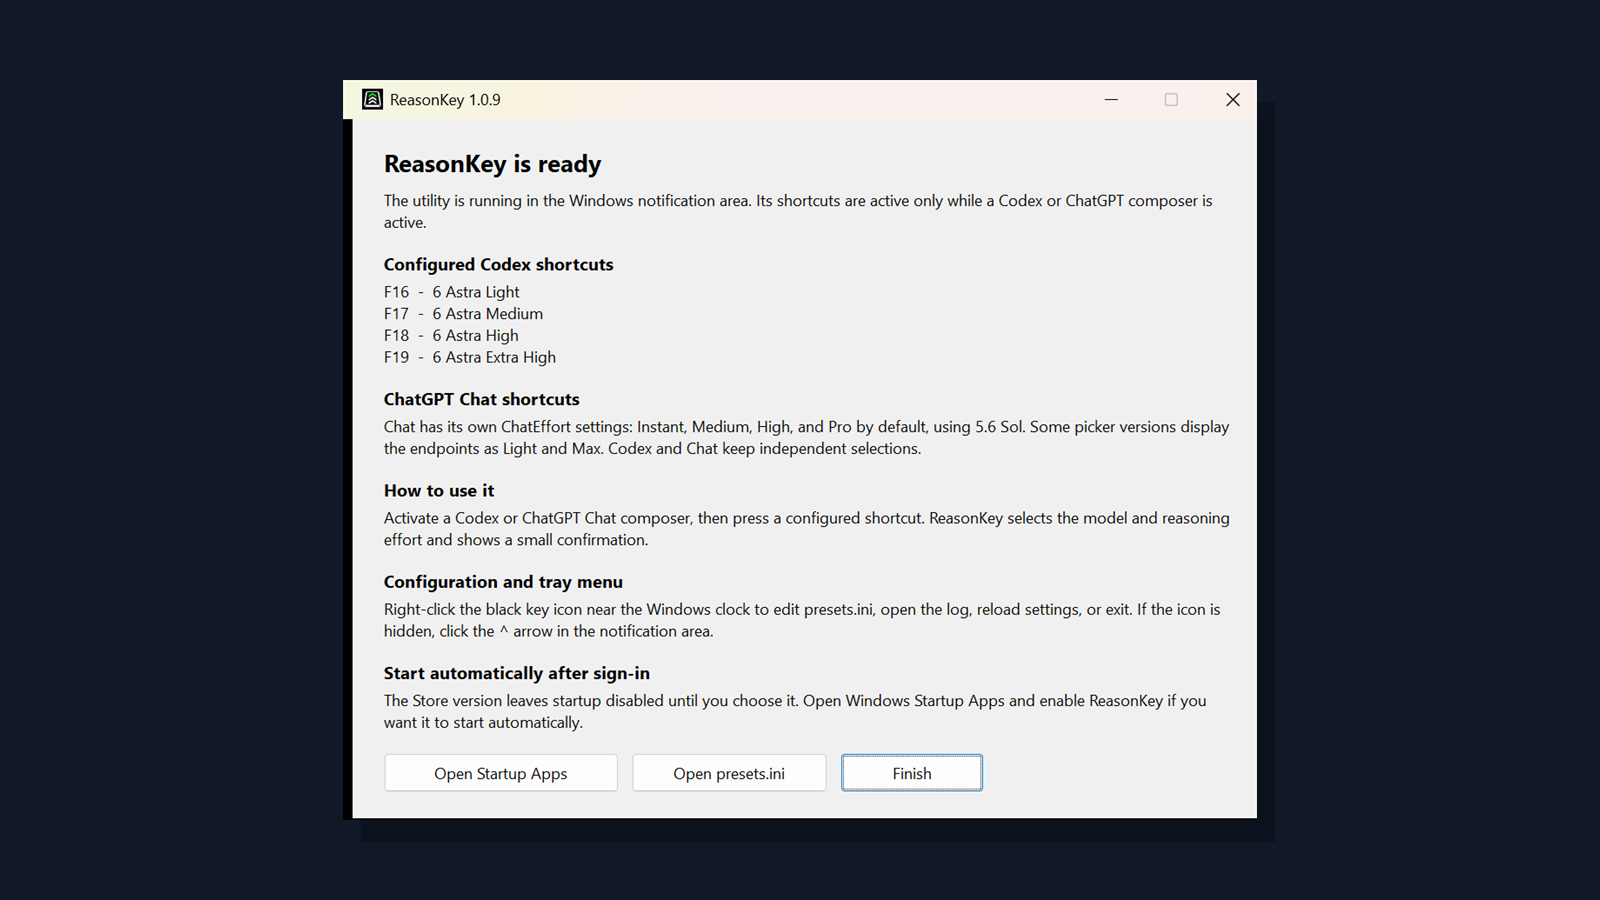
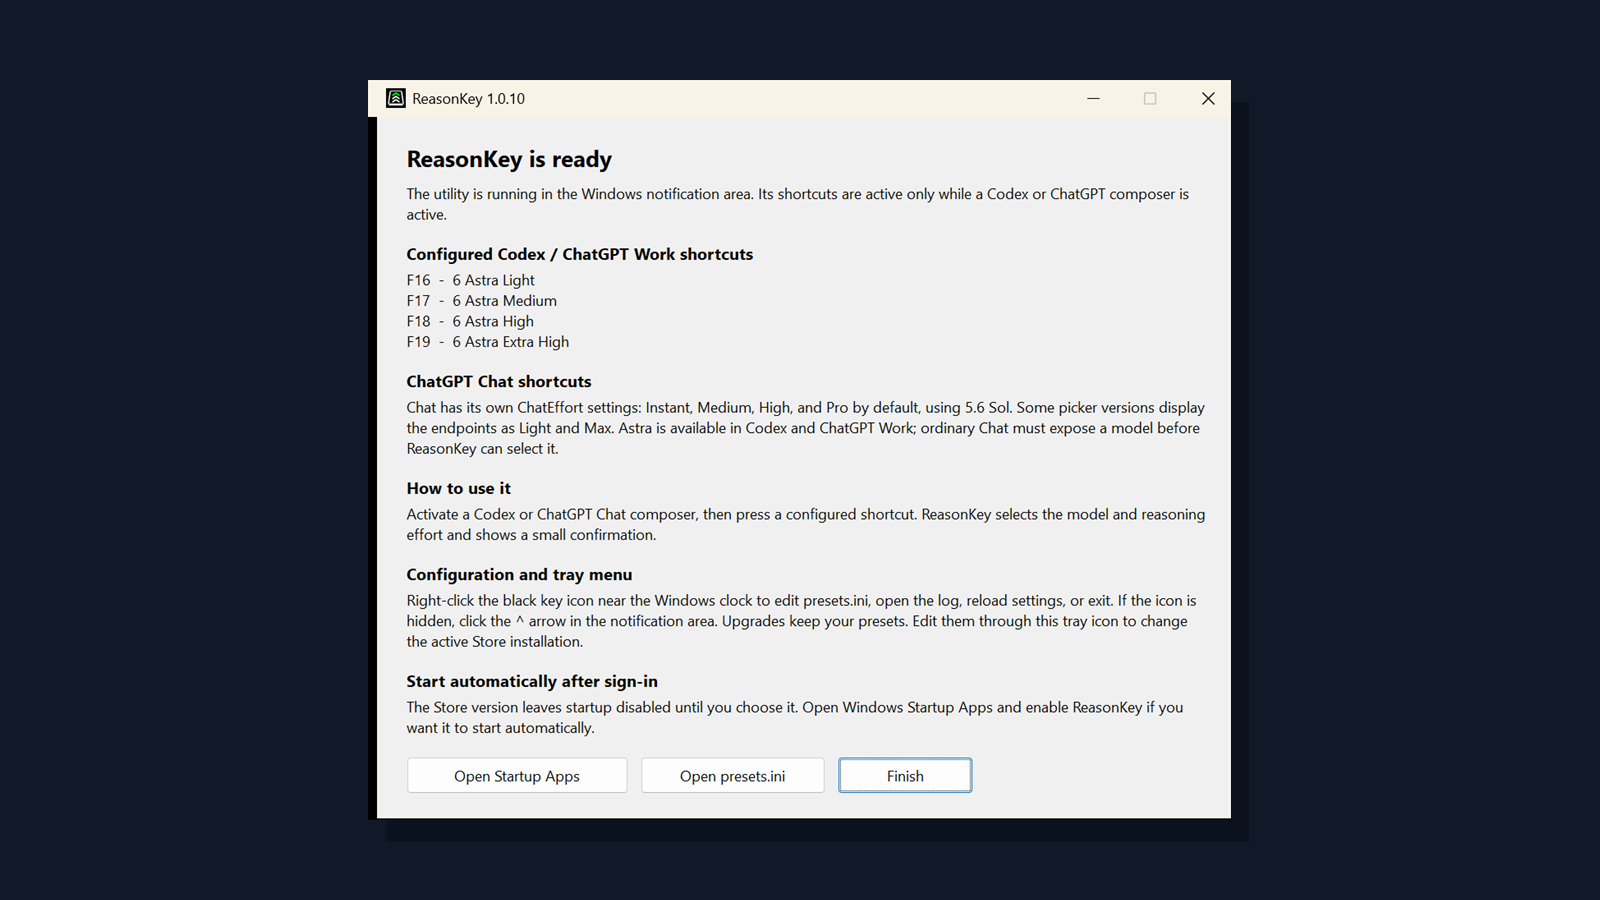
Release 1.0.10 for the updated Codex and ChatGPT picker

Changed region(s): [[0.1875, 0.0933, 0.8125, 0.9333], [0.4062, 0.84, 0.625, 0.9022]]

diff --git a/docs/diagnostics/release-1.0.10.md b/docs/diagnostics/release-1.0.10.md
@@ -1,0 +1,99 @@
+# ReasonKey 1.0.10 release evidence
+
+Validated on 2026-09-08/09 (America/Vancouver), against installed
+`OpenAI.Codex_26.903.8094.0_x64__2p2nqsd0c76g0`. Tests used the final compiled
+runtime, built from the 1.0.10 working tree based on `de8ee9c`; release commit
+and remote outcomes are recorded below after publication.
+
+## Build and artifacts
+
+- `scripts/Build.ps1 -Clean` passed, including compiled runtime/installer
+  validation, uninstaller path guards and the isolated copied-path singleton.
+- Final setup SHA-256:
[1 lines of base64/hex data omitted]
+- Direct runtime SHA-256:
[1 lines of base64/hex data omitted]
+- Store package `ReasonKey_1.0.10.0_x64.msix` built and unpacked successfully.
+  Metadata confirms Microsoft Store submission, unsigned, x64, and version
+  1.0.10.0. Package SHA-256:
[1 lines of base64/hex data omitted]
+- The manifest-adjusted packaged runtime passed `--validate` with exit 0.
+  Its SHA-256 is
[1 lines of base64/hex data omitted]
+- Native Store helper build/self-test passed. Its SHA-256 is
[1 lines of base64/hex data omitted]
+
+## Actual picker results
+
+Times below are local on September 8. A `selected` record follows the runtime's
+read of the final accessible Button; snapshots also confirmed the final UI.
+No diagnostic messages were submitted to Codex or ChatGPT.
+
+| Surface / starting state | Verified results |
+|---|---|
+| ChatGPT Work, picker closed | F16 Astra Light 23:43:52; F17 Medium 23:44:04; F18 High 23:44:21; F19 Extra High 23:44:37 |
+| Work, compact picker already open | F17 Astra Medium 23:46:00; trigger was the new `Select effort` Button |
+| Work, model radio list already open | F19 Astra Extra High 23:50:32 |
+| Codex, picker closed | F16 Astra Light 23:51:34; F18 High 23:51:52; F19 Extra High 23:51:58; F17 Medium 23:52:04 |
+| Ordinary Chat, picker closed | F16 Sol Instant 23:53:55; F17 Medium 23:54:11; F18 High 23:54:18; F19 Pro 23:54:25 |
+| Ordinary Chat, compact picker already open | F18 Sol High 23:54:51 |
+| Temporary additional presets | Astra Max 23:56:24; switch back to Sol Medium 23:57:15; restore Astra Extra High 23:57:57 |
+
+The ordinary Chat model radio list exposed Latest, GPT-5.6 Sol and GPT-5.5,
+without Astra. Work correctly used the Codex path despite the ChatGPT sidebar.
+Ordinary Chat's accessible trigger is `Select ChatGPT model`; its visible
+descendant labels and selected model radio state were verified by the runtime.
+
+Additional boundary tests requested Astra Ultra and Luna Ultra. Both remained
+at their model's Max value and logged `failed`, with no false `selected` success
+for Ultra. Thus Ultra selection is **not verified** on this client. The four
+requested Astra levels all passed. An invalid temporary hotkey logged
+`invalid-hotkey=InvalidKeyName error=Invalid key name.` The temporary INI was
+restored byte-for-byte afterward.
+
+F16 in File Explorer caused no picker action or new runtime log entry (the log
+remained 38,664 bytes). The original current task was restored to Codex with
+`GPT-6 Astra Medium`; the empty Work draft was returned to Extra High.
+
+## Installation, configuration and screenshot
+
+The user's active Store INI still contained older Luna/Sol presets. For this
+explicit update request, the first four local presets were changed to Astra
+Light/Medium/High/Extra High, preserving F16-F19 and the ordinary Chat mapping.
+This deliberate user configuration change is separate from installer policy:
+upgrades continue to preserve existing INIs.
+
+Codex's MSIX redirects terminal-launched direct installation into its
+`LocalCache/Local/ReasonKey` directory. Final setup was tested there, with
+the active INI's SHA-256 unchanged and new 1.0.10 startup/PID evidence.
+The real direct-install executable and reference were also refreshed through
+the existing localhost administrative share; no permissions or shares changed.
+Both real and redirected direct EXEs matched the final runtime hash. This
+does not establish a new unredirected Explorer-installer test.
+
+Actual cross-channel launches were checked in both orders using the installed
+public Store 1.0.9.0 and final direct 1.0.10 runtime. Exactly one runtime remained
+in each order. A public Store launch recorded its real package LocalState path
+and `store-update result=no-update`; that is not an actual delivered upgrade.
+The final direct 1.0.10 runtime was restored. Unrelated `arrowkeys.ahk`
+remained running throughout.
+
+The real 1.0.10 Store-preview Quick Start was captured and visually inspected;
+all text and buttons fit. The 1600x900 listing screenshot SHA-256 is
[1 lines of base64/hex data omitted]
+
+## Unverified gates
+
+- Legacy desktop picker: an older client was not available.
+- Local WACK and trusted development-package installation: the session is
+  non-elevated and the required certificate/WACK flow requires elevation.
+- Fresh-profile installation, destructive uninstall/removal, Store 1.0.10
+  first launch/startup and actual delivered update/restart remain unverified.
+- Upload validation, GitHub CI and source checks do not establish those gates.
+
+## Remote publication
+
+Partner Center accepted the final package as **Validated** in Submission 5
+(`1152921505701842633`). Updated listing text, release notes and the replacement
+1.0.10 screenshot/caption were saved. Final publication/submission outcomes
+will be recorded separately after dispatch.

diff --git a/README.md b/README.md
@@ -121,6 +121,8 @@ checked together:
 
 ## Default shortcuts
 
+In **Codex** and **ChatGPT Work**, new installations use:
+
 | Shortcut | Model | Reasoning effort |
 |---|---|---|
 | `F16` | GPT-6 Astra | Light |
@@ -143,6 +145,10 @@ display the `Instant` and `Pro` endpoints as `Light` and `Max`; ReasonKey
 retains that compatibility. An unavailable option fails explicitly instead of silently
 choosing a different level.
 
+Ordinary Chat has a separate model catalog. In the tested 26.903 app it exposes
+Latest, GPT-5.6 Sol and GPT-5.5, without Astra. Use **Codex** or **ChatGPT Work**
+for the Astra presets above; ReasonKey cannot unlock a model absent from the picker.
+
 The shortcuts are active only while the Codex/ChatGPT desktop window is active. They do not
 capture these keys globally in other applications.
 
@@ -160,6 +166,13 @@ show hidden icons. Hover over it to confirm that its tooltip starts with
 The installed `presets.ini` contains a beginner-oriented explanation of every
 setting and the supported hotkey syntax. **Open configuration guide** opens an
 always-current commented example. Upgrades preserve the active `presets.ini`.
+
+**Still selecting Luna or Sol after upgrading?** Open `presets.ini` through the
+running ReasonKey tray icon. Store and direct EXE installations have separate
+configuration files, and upgrading deliberately keeps existing presets. Set
+`Model=Astra` in Preset1–Preset4 and their `Effort` values to `Light`, `Medium`,
+`High`, `Extra High`, respectively, then save and choose **Reload**. The tray
+command opens the file used by the active runtime.
 
 Supported model names are `Luna`, `Terra`, `Sol`, and `Astra` (GPT-6).
 To select GPT-6 Astra, set `Model=Astra` in the desired preset, save, and
@@ -206,7 +219,7 @@ details.
 - English UI labels in the current release
 
 The current unified Codex and ChatGPT paths were validated against desktop
-package `OpenAI.Codex_26.901.5280.0_x64__2p2nqsd0c76g0`. The legacy Advanced
+package `OpenAI.Codex_26.903.8094.0_x64__2p2nqsd0c76g0`. The legacy Advanced
 path remains for compatibility with the earlier 26.825 builds. UI Automation
 labels are not a public compatibility contract, so future desktop updates can
 require selector updates.
@@ -231,6 +244,9 @@ does not override the user's setting and tries again on the next launch. The
 direct EXE does not run this Store-only update helper.
 
 See [Troubleshooting](docs/TROUBLESHOOTING.md) before opening an issue.
+
+The [1.0.10 validation report](docs/diagnostics/release-1.0.10.md) records the
+tested desktop version, actual picker results and remaining external checks.
 
 ## One runtime across Store and direct installs
 

diff --git a/packaging/store/StoreListing.en-US.md b/packaging/store/StoreListing.en-US.md
@@ -26,12 +26,21 @@ Medium, High, and Pro Power. Older combined-label pickers display the endpoints
 as Light and Max; that compatibility is retained. Availability
 still depends on the user's ChatGPT plan.
 
-Default presets:
+Default presets in Codex and ChatGPT Work:
 
 - F16: GPT-6 Astra, Light
 - F17: GPT-6 Astra, Medium
 - F18: GPT-6 Astra, High
 - F19: GPT-6 Astra, Extra High
+
+Ordinary Chat has a separate model catalog. The tested 26.903 app offers
+Latest, GPT-5.6 Sol and GPT-5.5 there, without Astra. Use Codex or ChatGPT Work
+for Astra; ReasonKey cannot unlock an unavailable model.
+
+Upgrades preserve existing presets. To adopt Astra after upgrading, open
+presets.ini from the running ReasonKey tray icon, set the first four Model
+values to Astra and Effort to Light, Medium, High, Extra High, then reload.
+Store and direct EXE installations keep separate configuration files.
 
 Shortcuts and presets can be edited in a documented `presets.ini` file from the
 tray menu. The utility acts only while the Codex/ChatGPT desktop app window is
@@ -84,11 +93,10 @@ Copyright 2026 ReasonKey contributors. Codex, ChatGPT, and OpenAI are the
 property of their respective owners. This product is not affiliated with or
 endorsed by OpenAI.
 
-## What's new in 1.0.9
+## What's new in 1.0.10
 
-- Support GPT-6 Astra and the updated desktop model picker.
-- New Codex defaults: Light, Medium, High, and Extra High on F16-F19.
-- Restore ChatGPT's independent Sol Instant, Medium, High, and Pro selection.
-- Improve keyboard-focus and final-selection verification.
-- Preserve existing presets during upgrades. To adopt Astra in an existing
-  installation, edit presets.ini using the refreshed configuration guide.
+- Recognize the updated 26.903 picker, including its open Select effort Button.
+- Astra Light, Medium, High, and Extra High on F16-F19 in Codex and ChatGPT Work.
+- Keep ordinary Chat's separate Sol Instant, Medium, High, and Pro presets.
+- Keep picker discovery inside the focused popup and active app window.
+- Clarify how to update preserved presets in the active Store or EXE installation.

diff --git a/docs/PROJECT_CONTEXT.md b/docs/PROJECT_CONTEXT.md
@@ -2,7 +2,7 @@
 
 Source/navigation context, not a second product specification or a release log.
 Read the [product core](product-spec.md) and affected owners first.
-Snapshot: 2026-09-05; working-tree runtime and installer declare AppVersion 1.0.9.
+Snapshot: 2026-09-08; working-tree runtime and installer declare AppVersion 1.0.10.
 Source support includes Astra; this snapshot does not establish publication.
 
 ## Repository
@@ -41,7 +41,9 @@ public Store delivery.
 
 ## Evidence boundaries
 
-This snapshot comes from source inspection, not a new runtime/build/Store test.
+The source map above comes from source inspection. Current release evidence is
+in [1.0.10 validation](diagnostics/release-1.0.10.md), including actual Codex,
+ChatGPT Work and ordinary Chat results and the remaining external gates.
 [Picker history](diagnostics/picker-validation-history.md) records earlier app
 versions and transitions. [Store history](diagnostics/store-release-history.md)
 records builds, hashes, confirmations and submission states through 1.0.6.
@@ -50,7 +52,7 @@ Read either only for a matching investigation.
 [Astra development evidence](diagnostics/astra-validation-20260905.md) records
 1.0.7 build checks; the actual picker matrix was not marked complete.
 
-The last recorded 1.0.6 submission state is historical; fresh publication,
+The old 1.0.6 submission state is historical; fresh publication,
 clean-profile installation and actual update/restart are separate
 [submission gates](../packaging/store/SubmissionChecklist.md). Do not infer current
 Store status from a built package, checked historical box or README link.

diff --git a/docs/product-spec/picker.md b/docs/product-spec/picker.md
@@ -33,7 +33,7 @@ Read through the [product core](../product-spec.md).
 
 ## Current implementation
 
-Source inspection: 2026-09-05, working-tree [ReasonKey.ahk](../../src/ReasonKey.ahk) 1.0.9.
+Source inspection: 2026-09-08, working-tree [ReasonKey.ahk](../../src/ReasonKey.ahk) 1.0.10.
 
 | Area | Source entry points / current accessible surface |
 |---|---|
@@ -51,6 +51,13 @@ FocusPickerElement confirms the focused accessible name before keyboard input.
 Already-open Codex compact popups are closed with Escape and reopened only
 after finding the actual Button. Recovery is bounded and every attempt retains
 final model/effort verification.
+
+The 26.903 unified picker can keep its Button in the tree with the placeholder
+Select effort or Select model. FindCodexPickerTrigger accepts those names only
+beside an actual Work/Codex editor; final verification still requires the exact
+combined model/effort Button. GetPickerSearchRoot returns failure when neither
+the focused popup nor a supplied target-window fallback is available, without
+falling back to a desktop-wide scan.
 
 Selectors recognize 5.6 Luna/Terra/Sol and GPT-6 Astra (also 6 Astra) through GetModelLabel,
 GetModelOptionPattern and GetPickerTriggerPattern, including reopening the

diff --git a/docs/product-spec/configuration.md b/docs/product-spec/configuration.md
@@ -10,6 +10,11 @@ A keyboard preset selects a complete Codex model/effort combination and an
 independent Chat effort. Chat uses 5.6 Sol. The legacy INI names remain compatible
 with both picker generations:
 
+ChatGPT Work follows the Codex Model/Effort contract. Ordinary Chat has a separate
+catalog; never describe its Sol presets as Astra or silently substitute it for
+an explicitly requested Astra selection. The tested 26.903 ordinary Chat catalog
+does not expose Astra.
+
 | Hotkey | Codex model | Codex effort | ChatEffort / current Chat | Older combined Chat Power |
 |---|---|---|---|---|
 | F16 | Astra | Light | Instant | Light |
@@ -43,7 +48,7 @@ its independent scale. Its stable `Select ChatGPT model` Button is verified
 through descendants or persisted Power status; the selected model radio is
 also verified. Older combined-label Chat pickers retain the Light/Max mapping.
 
-Source inspection: 2026-09-05, working-tree runtime AppVersion 1.0.9; see the Astra diagnostic report for live
+Source inspection: 2026-09-08, working-tree runtime AppVersion 1.0.10; see the Astra diagnostic report for earlier live
 UI and upgrade proof.
 
 In [ReasonKey.ahk](../../src/ReasonKey.ahk), LoadPresets reads General/PresetCount

diff --git a/docs/TROUBLESHOOTING.md b/docs/TROUBLESHOOTING.md
@@ -38,6 +38,18 @@ appeared before timeout. Unified pickers use Select model and Power instead.
 Both paths and already-open views are supported; include the starting view in
 your report. See the [picker contract](product-spec/picker.md).
 
+## An upgrade still selects Luna or Sol
+
+Upgrades preserve existing presets, including those originally migrated into
+the Store package. Store and direct installations keep separate active files.
+Open **presets.ini** from the running tray icon, set Preset1–Preset4 to
+`Model=Astra` with `Effort=Light`, `Medium`, `High`, `Extra High`, then save and
+choose **Reload**. Quick Start shows the loaded Codex/Work presets and channel.
+
+Ordinary Chat uses a separate model catalog and independent `ChatEffort` values.
+The tested 26.903 ordinary Chat catalog does not expose Astra; select Codex or
+ChatGPT Work when you want Astra. A missing model cannot be added by ReasonKey.
+
 ## A model or effort option is missing
 
 Availability can vary by composer, model, account, workspace policy, and app version.

diff --git a/docs/DEVELOPMENT.md b/docs/DEVELOPMENT.md
@@ -140,6 +140,8 @@ user INI and restore any deliberately changed composer mode/preset afterward.
    - repeat Astra selection from compact and model radio views, then switch
      back to Luna or Sol, confirming the actual Button after each transition.
 3. Current unified picker in ChatGPT:
+   - distinguish ordinary Chat from ChatGPT Work; Work uses the Codex Astra
+     fixtures above, while ordinary Chat must expose the separate Sol catalog;
    - F16 → `5.6 Sol Instant` (or Light on older combined-label pickers);
    - F17 → `5.6 Sol Medium`;
    - F18 → `5.6 Sol High`;
@@ -183,7 +185,9 @@ throw. Verify the corresponding accessible state change.
 
 ## Release
 
-Recorded [Astra development evidence](diagnostics/astra-validation-20260905.md) is separate from these reusable release gates.
+Recorded [1.0.10 release evidence](diagnostics/release-1.0.10.md) and earlier
+[Astra development evidence](diagnostics/astra-validation-20260905.md) are
+separate from these reusable release gates.
 
 ### Release steps
 

diff --git a/docs/product-spec/installation.md b/docs/product-spec/installation.md
@@ -26,6 +26,8 @@ behavior belongs to [Store updates](store-updates.md).
   black-key icon with green-and-white chevrons and tray access to configuration,
   reference guide, logs, Reload and Exit.
 - Quick Start displays the loaded Codex presets, including user customizations.
+- Quick Start identifies Codex/ChatGPT Work presets and the active Store/direct
+  channel so users can locate preserved settings after an upgrade.
 - Setup waits for recognized previous runtimes to exit, then replaces the EXE.
   Completion requires the new version and PID's startup log after hotkey
   registration; a spawned process alone is insufficient.
@@ -34,7 +36,7 @@ behavior belongs to [Store updates](store-updates.md).
 
 ## Current implementation
 
-Source inspection: 2026-09-05, working-tree runtime and installer AppVersion 1.0.9.
+Source inspection: 2026-09-08, working-tree runtime and installer AppVersion 1.0.10.
 
 | Surface | Current location / implementation |
 |---|---|

diff --git a/packaging/store/CertificationNotes.md b/packaging/store/CertificationNotes.md
@@ -43,7 +43,10 @@ desktop app is absent. For a complete functional test:
 The same shortcuts must also be tested in a ChatGPT Chat composer. They select
 5.6 Sol with Instant, Medium, High, and Pro in ordinary Chat. Older combined-label
 pickers use Light and Max endpoints as documented in the public README.
-New Codex defaults select GPT-6 Astra Light, Medium, High, and Extra High.
+Codex and ChatGPT Work defaults select GPT-6 Astra Light, Medium, High, and
+Extra High. Ordinary Chat's separate catalog does not expose Astra on the
+tested 26.903.8094.0 app. Upgrades preserve the active configuration, so an
+existing install may still show customized or older presets in Quick Start.
 
 No publisher-supplied Codex or OpenAI credentials are required or included.
 

diff --git a/CHANGELOG.md b/CHANGELOG.md
@@ -1,5 +1,15 @@
 # Changelog
 
+## 1.0.10 - 2026-09-09
+
+- Recognize the 26.903 open-picker Select effort / Select model Button beside
+  a Codex or ChatGPT Work editor, retaining exact final model/effort verification.
+- Bound popup discovery to keyboard focus and the target window; remove the
+  full-desktop fallback when popup focus is lost.
+- Clarify Astra Light/Medium/High/Extra High presets for Codex and ChatGPT Work,
+  ordinary Chat's separate Sol catalog, and preserved Store versus EXE settings.
+- Show the active installation channel in Quick Start's configuration guidance.
+
 ## 1.0.9 - 2026-09-05
 
 - Set the final Codex F19 default to Astra Extra High per the updated user
